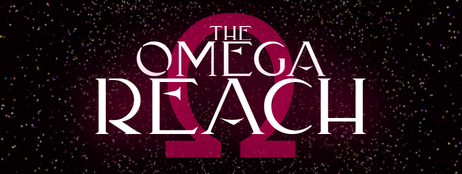
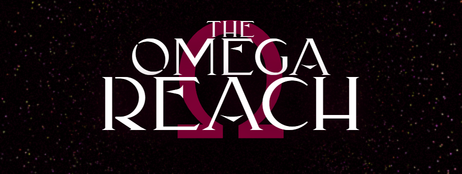
Revise assets

diff --git a/src/css/app/splash.css b/src/css/app/splash.css
@@ -28,18 +28,19 @@
     filter: drop-shadow(0 0 1em #000000);
     line-height: 0.75;
     opacity: 0;
+    max-width: unset !important;
     position: relative;
-    transform: translateY(-2em) scale(0.125);
+    transform: translateY(-1em) scale(0.125);
     transition: all 1s ease;
     transition-property: opacity, transform;
   }
     .a-app--screen-active .a-splash--logo {
       opacity: 1;
-      transform: translateY(-2em);
+      transform: translateY(-1em);
       transition-duration: 4s;
     }
   .a-splash--logoLine {
-    filter: drop-shadow(0 0 1rem #FF0069);
+    filter: drop-shadow(0 0 0.5rem hsla(335deg, 100%, 12.5%, 0.75));
     font-family: CalvusRegular, RobotoRegular, sans-serif;
     position: relative;
     text-transform: uppercase;
@@ -49,18 +50,18 @@
       font-size: 1.5em;
     }
     .a-splash--logoLine-1 {
-      font-size: 2em;
+      font-size: 4em;
     }
     .a-splash--logoLine-2 {
-      font-size: 5em;
+      font-size: 9em;
     }
     .a-splash--logoLine-3 {
-      font-size: 8em;
+      font-size: 13em;
     }
   .a-splash--logoSymbol {
     animation: a-splash--logoSymbol 4s ease-in-out 0s infinite alternate both;
     color: #FF0069;
-    font-size: 32em;
+    font-size: 28em;
     z-index: 1;
   }
   .a-splash--logoSymbol i {
@@ -91,16 +92,16 @@
 
 @keyframes a-splash--logoSymbol--i {
   0% {
-    transform: translateX(-50%) translateY(calc(-50% + 0.25rem));
+    transform: translateX(-50%) translateY(calc(-50% + 0.5rem));
   }
   100% {
-    transform: translateX(-50%) translateY(calc(-50% - 0.25rem));
+    transform: translateX(-50%) translateY(calc(-50% - 0.5rem));
   }
 }
 
 @media (prefers-reduced-motion: reduce) {
   .a-splash--logo {
-    transform: translateY(-2em) !important;
+    transform: translateY(-1em) !important;
   }
 
   .a-splash--logoSymbol {

diff --git a/src/css/app.css b/src/css/app.css
@@ -84,7 +84,7 @@
   display: none;
 }
 .a-app-capsule .a-app--splash {
-  background: transparent !important;
+  background: transparent;
   display: block !important;
   opacity: 1 !important;
   pointer-events: none !important;
@@ -97,7 +97,7 @@
 }
 .a-app-capsule .a-splash--logoSymbol {
   animation: none !important;
-  opacity: 0.5;
+  color: hsl(335deg, 100%, 25%);
 }
 .a-app-capsule .a-splash--logoSymbol i {
   animation: none !important;
